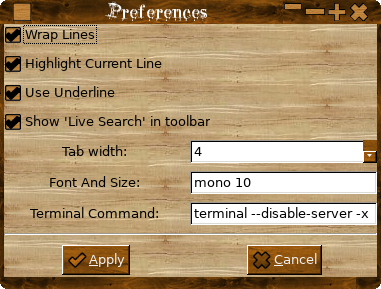
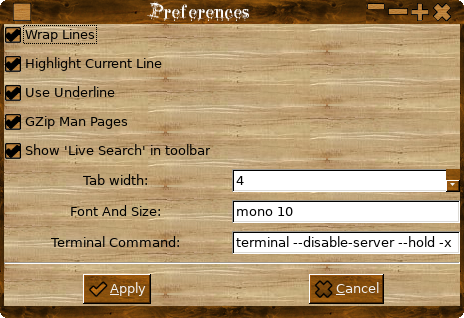
redone help
git-svn-id: file:///media/LinuxData/Development/SVN/ManPageEditor@152 1a89f3de-f70e-48a4-9638-487a1ba007f0

diff --git a/ManPageEditor/resources/help/help.html b/ManPageEditor/resources/help/help.html
@@ -53,12 +53,21 @@
       <br>
       <br>
       <a name="filemenu"></a><u><font size="+1"><b>File Menu</b></font></u><br>
-      <img alt="" src="filemenu.png" height="583" width="904"><br>
+      <img alt="" src="filemenu.png" height="578" width="672"><br>
       <br>
       <font size="-1">New <font size="-1">will <font size="-1">create
             a new manpage.<br>
             <font size="-1">New Section adds a section to the manpage.<br>
-              <font size="-1">Open open a manpageeditor file (.mpz).<br>
+              <font size="-1">New From Template opens a template file
+                installed in PREFIX</font>/<font size="-1">share/ManPageEditor/examples</font>,
+              called oddly enough template-1.mpz, you can change this
+              template to suit your tastes or replace it with your own
+              template, at some fut<font size="-1">ure stage I will add
+                more templates and possibly add a template folder.<br>
+                <font size="-1">New Editor would you <font size="-1">believe</font>
+                  opens a new editor!</font><br>
+              </font> <font size="-1">Open open a manpageeditor file
+                (.mpz).<br>
                 <font size="-1">Export export<font size="-1">s to m<font
                       size="-1">anpage format<font size="-1">, sections
                         are created in the order they are displayed in
@@ -67,6 +76,7 @@
                             size="-1">page to the same folder as the
                             source file and names it <font size="-1">as
                               the lowercase name in <font size="-1">properties
+
 
 
 
@@ -82,6 +92,7 @@
                           size="-1">Properties set the main properties
                           for the page.<br>
                           Delete section does what it s<font size="-1">ays,
+
 
 
 
@@ -113,9 +124,10 @@
               size="-1"><font size="-1"><font size="-1"><font size="-1"><font
                       size="-1"><u><b><font size="+1"><font size="+1"><a
                                 name="prefs"></a>Preferences <br>
-                              <img alt="" src="prefs.png" height="289"
-                                width="381"><br>
+                              <img alt="" src="prefs.png" height="318"
+                                width="464"><br>
                             </font></font></b></u></font></font></font></font></font></font></font>Self
+
 
 
         explanatory mostly 'Use Underline' uses underlining in the GUI
@@ -129,6 +141,7 @@
                                 width="250"><br>
                             </font></font></b></u><font size="+1"><font
                           size="+1"><font size="-1">The <font size="-1">header
+
 
 
 
@@ -177,8 +190,10 @@
           </b></u><font size="-1"><strike>Write a proper help file.</strike><br>
           Add proper formatting instead of using text based tags<font
             size="-1"> --&gt; Mostly done need to add stuff like indents
-            a<font size="-1">nd paragraphs.</font></font><br>
-          Add optional zipping up of man pages.<br>
+            a<font size="-1">nd paragraphs.<br>
+              <font size="-1">Add more templates and template folder.</font><br>
+            </font></font> <strike>Add optional zipping up of man
+            pages.</strike><br>
           <strike> Add preview option.</strike><br>
           <strike> Add import manpage.</strike><br>
           <strike> Make a proper icon.</strike><br>
@@ -187,7 +202,7 @@
         </font><u><b></b></u></font> <font size="-1"> </font>
       <hr size="2" width="100%"><a name="getanc"></a><b>Get it here!</b><b><br>
       </b> <b><a
-href="http://keithhedger.hostingsiteforfree.com/zips/manpageeditor/ManPageEditor-0.0.9.tar.gz">ManPageEditor</a></b><br>
+href="http://keithhedger.hostingsiteforfree.com/zips/manpageeditor/ManPageEditor-0.0.10.tar.gz">ManPageEditor</a></b><br>
       <br>
       <font size="-1">Dependencies<br>
         <br>
